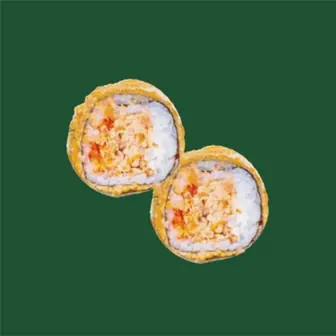
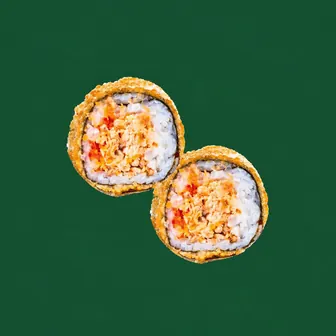
Update photo — Crunchy Fry Salmon Fry

Changed region(s): [[0.1786, 0.2083, 0.8036, 0.8036]]

diff --git a/src/data/dishImages.ts b/src/data/dishImages.ts
@@ -202,7 +202,7 @@ export const CLIENT_DISH_IMAGES: Record<string, string> = {
   "e8077d2295": "/menu-hd-onglet24/crunchy-dragon-eyes.png",
   "e3a96c288b": "/menu-hd-onglet24/crunchy-pacific.png",
   "3583d51b73": "/menu-hd-onglet24/crunchy-fry-eby-fry.jpg",
-  "45bca3a281": "/menu-hd-onglet24/crunchy-fry-salmon-fry.png",
+  "45bca3a281": "/menu-hd-onglet24/crunchy-fry-salmon-fry.jpg",
 
   // Wok & Thaï — captures Yumlo 16-02 (miniatures)
   "083ac320dd": "/menu-hd-onglet25/wok-nouilles.png",

diff --git a/src/data/yumloMenu.ts b/src/data/yumloMenu.ts
@@ -1518,7 +1518,7 @@ export const YUMLO_MENU = [
     "description": "Saumon cuit, cheese, tobiko 6 Pièces",
     "priceMAD": "55.25",
     "currency": "MAD",
-    "image": "/menu-hd-onglet24/crunchy-fry-salmon-fry.png"
+    "image": "/menu-hd-onglet24/crunchy-fry-salmon-fry.jpg"
   },
   {
     "id": "53578ea799",
